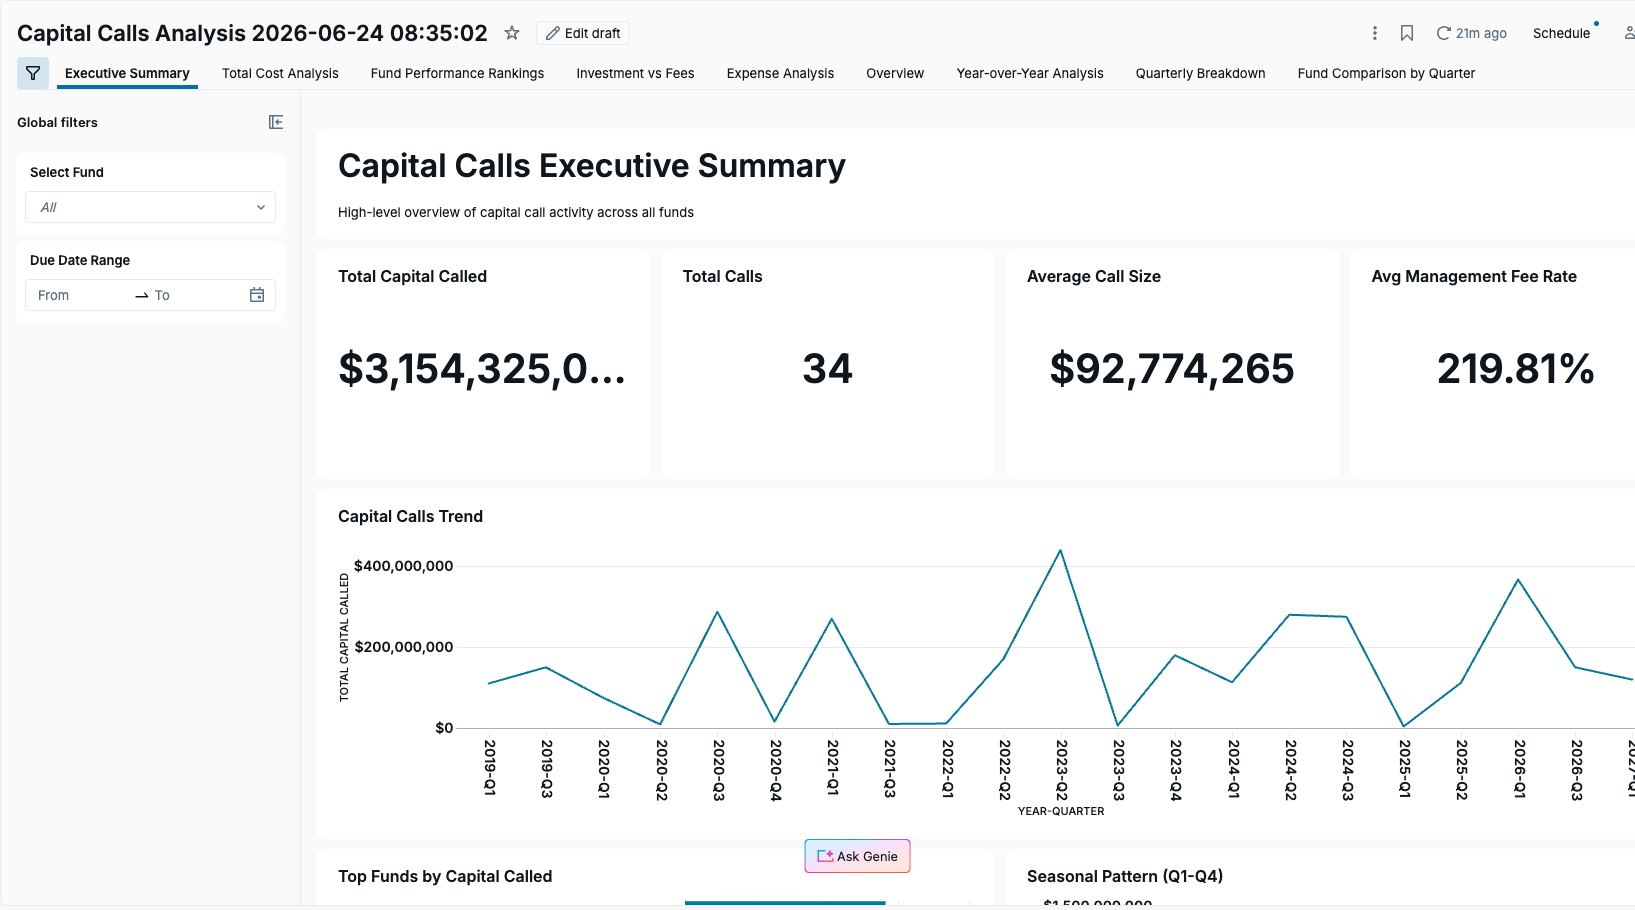
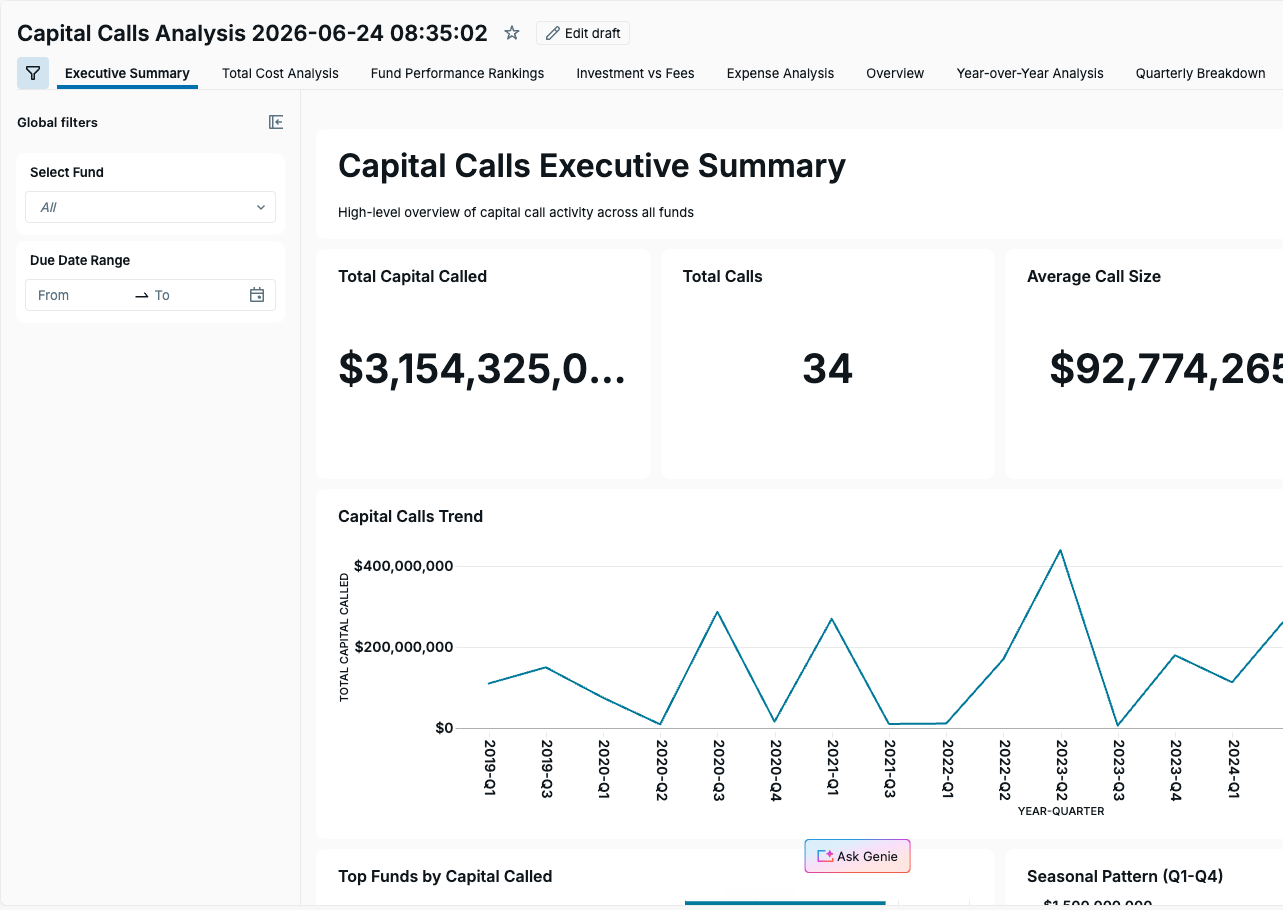
docs: drop the nonsensical 219.81% fee-rate tile from the exec-summary shot
Review-panel must-fix: the Avg Management Fee Rate KPI (>100%, an averaging
artifact on the extracted rate column) was visible and would undercut the
dashboard's credibility. Re-cropped cc-executive-summary.png to exclude that
tile, removed the fee-rate mention from the prose, sharpened the Genie
attribution, and aligned the Overview prose with what its screenshot shows.

diff --git a/README.md b/README.md
@@ -148,9 +148,9 @@ On top of the governed `fund_ops.silver` tables, two **Databricks AI/BI dashboar
 
 ### 1. Capital Calls Analysis
 
-A deep analytical dashboard built with Databricks AI/BI + **Genie**, spanning **nine tabs** — *Executive Summary · Total Cost Analysis · Fund Performance Rankings · Investment vs Fees · Expense Analysis · Overview · Year-over-Year Analysis · Quarterly Breakdown · Fund Comparison by Quarter* — with global **Select Fund** and **Due Date Range** filters.
+A deep analytical dashboard scaffolded with Databricks AI/BI + **Genie** (natural language → dashboard), spanning **nine tabs** — *Executive Summary · Total Cost Analysis · Fund Performance Rankings · Investment vs Fees · Expense Analysis · Overview · Year-over-Year Analysis · Quarterly Breakdown · Fund Comparison by Quarter* — with global **Select Fund** and **Due Date Range** filters.
 
-**Executive Summary** — headline KPI tiles (total capital called, total calls = 34, average call size ≈ $92.8M, average management-fee rate) above a *Capital Calls Trend* line chart by year-quarter (2019 → 2027).
+**Executive Summary** — headline KPI tiles (total capital called, total calls = 34, average call size ≈ $92.8M) above a *Capital Calls Trend* line chart by year-quarter.
 
 ![Capital Calls Analysis — Executive Summary tab: KPI tiles and the capital-calls trend over time](assets/dashboards/cc-executive-summary.png)
 
@@ -160,7 +160,7 @@ A deep analytical dashboard built with Databricks AI/BI + **Genie**, spanning **
 
 ### 2. Agentic Fund-Ops Overview
 
-The pipeline's own operational dashboard — defined in [`dashboards/fund_ops.lvdash.json`](dashboards/fund_ops.lvdash.json) and deployable with [`setup/05_create_dashboard.sh`](setup/05_create_dashboard.sh). It surfaces KPI tiles (capital calls, distributions, USD capital called, anomalies flagged), the two charts below (**capital called by currency** and **documents processed by fund**, split by doc type), distributions-by-type, and the live **validation-anomalies review table** — the same numbers the validation and eval stages produce.
+The pipeline's own operational dashboard — defined in [`dashboards/fund_ops.lvdash.json`](dashboards/fund_ops.lvdash.json) and deployable with [`setup/05_create_dashboard.sh`](setup/05_create_dashboard.sh). It surfaces KPI tiles (capital calls, distributions, USD capital called, anomalies flagged), a distributions-by-type breakdown, and a live **validation-anomalies review table** — the same numbers the validation and eval stages produce. The two panels shown below are **capital called by currency** and **documents processed by fund** (split by document type).
 
 ![Agentic Fund-Ops Overview — capital called by currency, and documents processed by fund split by document type](assets/dashboards/fundops-overview-charts.png)
 